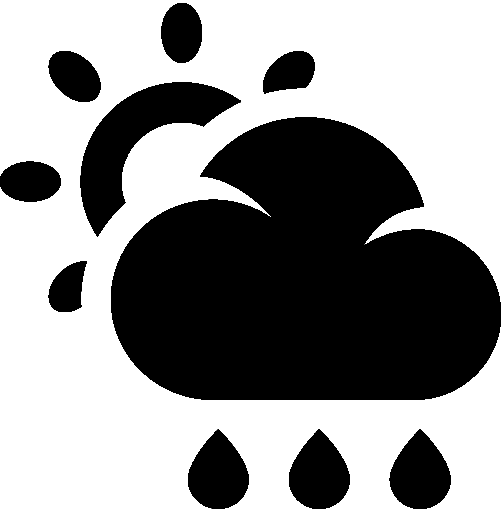
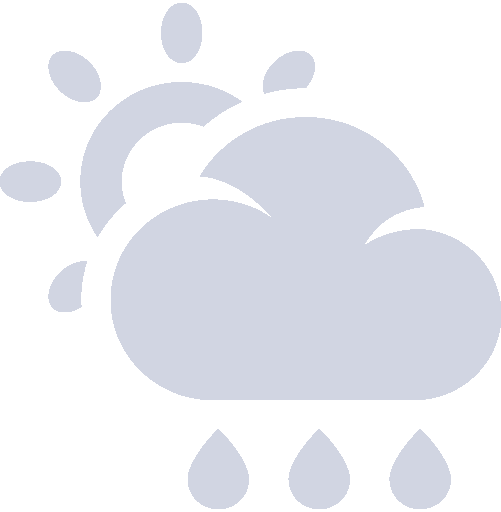
improvements on meteo functionality; changed images color

diff --git a/Homepage/Prototypes/Final_draft_improved/index.html b/Homepage/Prototypes/Final_draft_improved/index.html
@@ -51,12 +51,12 @@
 				<div>
 					<div class="slide">
 						<img class="main-screen-slide-side-left" onclick="changeMenuSlide(left)" src="img/main-menu/def.png">	
-						<img class="main-screen-slide" onclick="currentMenu('menu-alert');currentMenuSlide(1)" src="https://png.icons8.com/metro/1600/music.png">
+						<img class="main-screen-slide" onclick="currentMenu('menu-alert');currentMenuSlide(1)" src="img/main-menu/music.png">
 						<img class="main-screen-slide-side-right" onclick="changeMenuSlide(right)" src="img/main-menu/cloud.png">
 					</div>
 					
 					<div class="slide"> 
-						<img class="main-screen-slide-side-left" onclick="changeMenuSlide(left)" src="https://png.icons8.com/metro/1600/music.png"> 
+						<img class="main-screen-slide-side-left" onclick="changeMenuSlide(left)" src="img/main-menu/music.png"> 
 						<img class="main-screen-slide" onclick="currentMenu('menu-meteo');showMeteoDay(0)" src="img/main-menu/cloud.png">
 						<img class="main-screen-slide-side-right" onclick="changeMenuSlide(right)" src="img/main-menu/wc.png"> 
 					</div>
@@ -70,7 +70,7 @@
 					<div class="slide">
 						<img class="main-screen-slide-side-left" onclick="changeMenuSlide(left)" src="img/main-menu/wc.png">	
 						<img class="main-screen-slide" onclick="currentMenu('menu-def');" src="img/main-menu/def.png">
-						<img class="main-screen-slide-side-right" onclick="changeMenuSlide(right)" src="https://png.icons8.com/metro/1600/music.png"> 
+						<img class="main-screen-slide-side-right" onclick="changeMenuSlide(right)" src="img/main-menu/music.png"> 
 					</div>
 				</div>
 
@@ -409,24 +409,28 @@
 			<div id="menu-meteo" class="global-menu">
 				<div style="display:inline-block;width:60%;align-items:center">
 					<div id="meteo-day" class="menu-meteo-curr-loc"></div>
-
-					<div class="menu-meteo-graph-container" onclick="showHoursDay(0);currentMenu('menu-meteo-detail');">
-						<img class="navigation-arrow-alert nav-arrow-alert-hour" style="top:3px; margin-top:-5px; padding-bottom:0; position:relative" src="img/menu-meteo/graph.png"/>
-						<div style="font-size:9pt; display:inline-block; color:black;">detalhes</div>
-					</div>
-
 				</div>
 				<div>
 					<img class="menu-meteo-curr-image" src="img/menu-meteo/rain.png">
 					<div class="menu-meteo-curr-temp meteo-actual-day">
 						<div id="curr-temp"></div>
-						<div class="menu-meteo-minmax" style="top:65%"></div>
-						<div class="menu-meteo-minmax" style="top:90%"></div>
+						<div class="meteo-actual-container" onclick="showHoursDay(4); currentMenu('menu-meteo-detail');">
+							<div class="menu-meteo-minmax" style="top:5%"></div>
+							<div class="menu-meteo-minmax" style="top:35%"></div>
+							<div class="menu-meteo-minmax" style="top:65%;width: 100%">
+								<img class="navigation-arrow-alert nav-arrow-alert-hour" style="top:3px; margin-top:-5px; padding-bottom:0; position:relative" src="img/menu-meteo/graph.png"/>
+								<div style="font-size:9pt; display:inline-block;">horário</div>
+							</div>
+						</div>
 					</div>
-					<div class="menu-meteo-curr-temp meteo-other-day">
+					<div class="menu-meteo-curr-temp meteo-other-day meteo-other-container" onclick="showHoursDay(0);currentMenu('menu-meteo-detail');">
 						<div class="menu-meteo-minmax-bigger"></div>
-						<div class="menu-meteo-minmax-bigger" style="top:50%"></div>
-					</div> 
+						<div class="menu-meteo-minmax-bigger" style="top:30%"></div>
+						<div class="menu-meteo-minmax-bigger" style="top:60%;width: 100%">
+							<img class="navigation-arrow-alert nav-arrow-alert-hour" style="top:3px; margin-top:-5px;padding-bottom:0; position:relative" src="img/menu-meteo/graph.png"/>
+							<div style="font-size:9pt; display:inline-block;">horário</div>
+						</div>
+					</div>
 				</div>
 				<div class="menu-meteo-bottom">
 					<img class="nav-arrow-meteo-lr" onclick="changeMeteoDay(-1)" style="left:0" src="img/botFisicos/scrollLeftWhite.png">
@@ -722,9 +726,9 @@
         <img id="phy-btn-down" class="physical-button physical-button-arrow use-btn" style="transform:rotate(90deg);width:20px;margin-top:0px;padding:8px" src="img/botFisicos/rightArrow.png" />
       </div>
 
-      <img class="physical-button" style="position:absolute;top:40%;width:25px;transform:rotate(90deg);margin:0;left:0;margin-left:8px" src="https://d30y9cdsu7xlg0.cloudfront.net/png/24052-200.png" />
+      <img class="physical-button" style="position:absolute;top:40%;width:25px;transform:rotate(90deg);margin:0;left:0;margin-left:8px" src="img/botFisicos/rotativeIcon.png" />
 
-      <img id="phy-btn-right" class="physical-button use-btn" style="position:absolute;bottom:35%;transform:rotate(90deg)" src="https://cdn4.iconfinder.com/data/icons/buttons-icons/100/9-512.png" />
+      <img id="phy-btn-right" class="physical-button use-btn" style="position:absolute;bottom:35%;transform:rotate(90deg)" src="img/botFisicos/pressIcon.png" />
    </div>
 
   </body>

diff --git a/Homepage/Prototypes/Final_draft_improved/js/meteo-days.js b/Homepage/Prototypes/Final_draft_improved/js/meteo-days.js
@@ -1,7 +1,7 @@
 var meteoDay = [
 	{
 		day:"Qua",
-		date:" 16/5",
+		date:" 23/5",
 		actual:"25ºC",
 		max:"30ºC",
 		min:"21ºC",
@@ -12,7 +12,7 @@ var meteoDay = [
 
 	{
 		day:"Qui",
-		date:" 17/5",
+		date:" 24/5",
 		actual:"",
 		max:"32ºC",
 		min:"23ºC",
@@ -23,7 +23,7 @@ var meteoDay = [
 
 	{
 		day:"Sex",
-		date:" 18/5",
+		date:" 25/5",
 		actual:"",
 		max:"25ºC",
 		min:"16ºC",
@@ -34,7 +34,7 @@ var meteoDay = [
 
 	{
 		day:"Sab",
-		date:" 19/5",
+		date:" 26/5",
 		actual:"",
 		max:"35ºC",
 		min:"20ºC",
@@ -45,7 +45,7 @@ var meteoDay = [
 
 	{
 		day:"Dom",
-		date:" 20/5",
+		date:" 27/5",
 		actual:"",
 		max:"22ºC",
 		min:"15ºC",
@@ -56,7 +56,7 @@ var meteoDay = [
 	
 	{
 		day:"Seg",
-		date:" 21/5",
+		date:" 28/5",
 		actual:"",
 		max:"30ºC",
 		min:"20ºC",
@@ -67,7 +67,7 @@ var meteoDay = [
 	
 	{
 		day:"Ter",
-		date:" 22/5",
+		date:" 29/5",
 		actual:"",
 		max:"36ºC",
 		min:"26ºC",

diff --git a/Homepage/Prototypes/Final_draft_improved/js/main.js b/Homepage/Prototypes/Final_draft_improved/js/main.js
@@ -423,11 +423,16 @@ function showHoursDay(startHour) {
 	var num = 0;
 
 	for (let i = 0; i<3; i++) {
+		document.getElementsByClassName("linha-tabela-meteo")[i].style.background = "none";
 		num = 8+2*(i+startHour);
 		hours[i].innerHTML = num.toLocaleString(undefined, {minimumIntegerDigits: 2}) + 'h  ';
 		temps[i].innerHTML = meteoDay[meteoDayShown]['hour'][startHour+i];
 		icons[i].src = 'img/menu-meteo/' + meteoDay[meteoDayShown]['icon'][startHour+i] + '.png';
+		if (meteoDayShown == 0 && num == 16) {
+			document.getElementsByClassName("linha-tabela-meteo")[i].style.background = "#e376bd";
+		}
 	}
+	
 }
 
 function changeHoursDay(n) {
@@ -436,7 +441,6 @@ function changeHoursDay(n) {
 		showHoursDay(startHourShown);
 	}
 }
-
 
 var lastMeteoAlert = 0;
 

diff --git a/Homepage/Prototypes/Final_draft_improved/css/style.css b/Homepage/Prototypes/Final_draft_improved/css/style.css
@@ -641,7 +641,7 @@
 
 .menu-meteo-graph-container{
   right:2px;
-  top:66px;
+  top:52%;
   position:absolute;
   width:66px;
   height: 14px;
@@ -770,4 +770,26 @@
   padding-left: 5px;
   height: 15px;
   width: 15px;
+}
+
+.minmax-container {
+  color: black;
+  background: #e376bd;
+}
+
+.meteo-actual-container {
+  width: 60px;
+  height:40px;
+  top: 65%;
+  position: absolute;
+  background: #e376bd;
+}
+
+.meteo-other-container {
+  width: 65px;
+  height:50px;
+  top: 20%;
+  right: 5%;
+  position: absolute;
+  background: #e376bd;
 }
